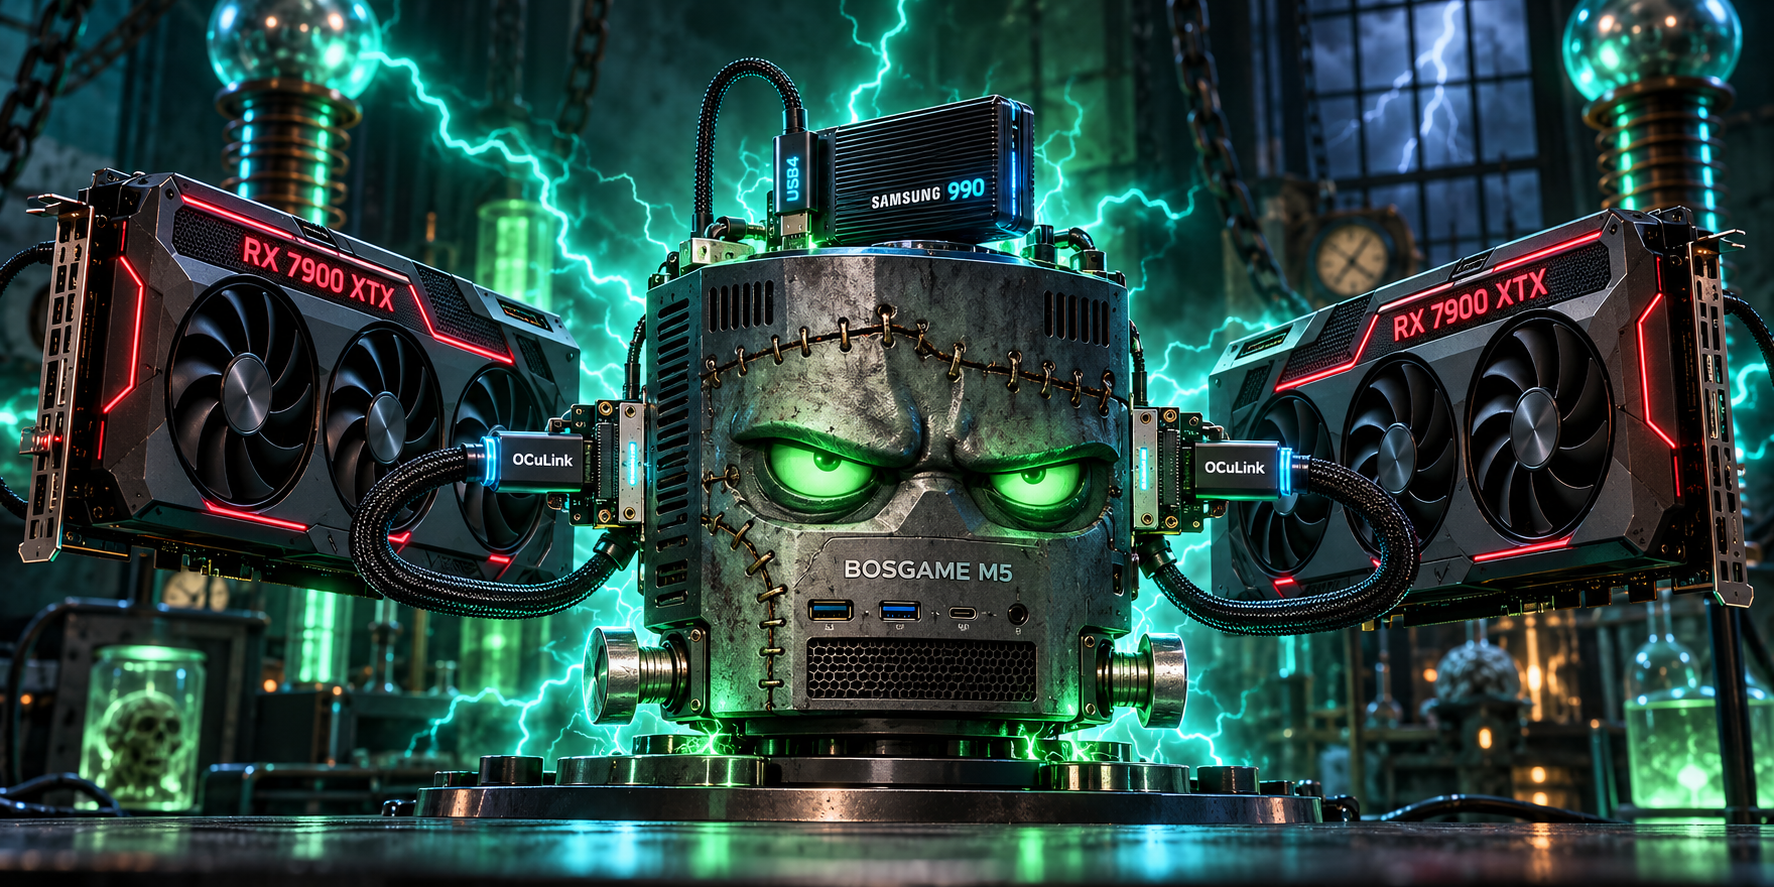
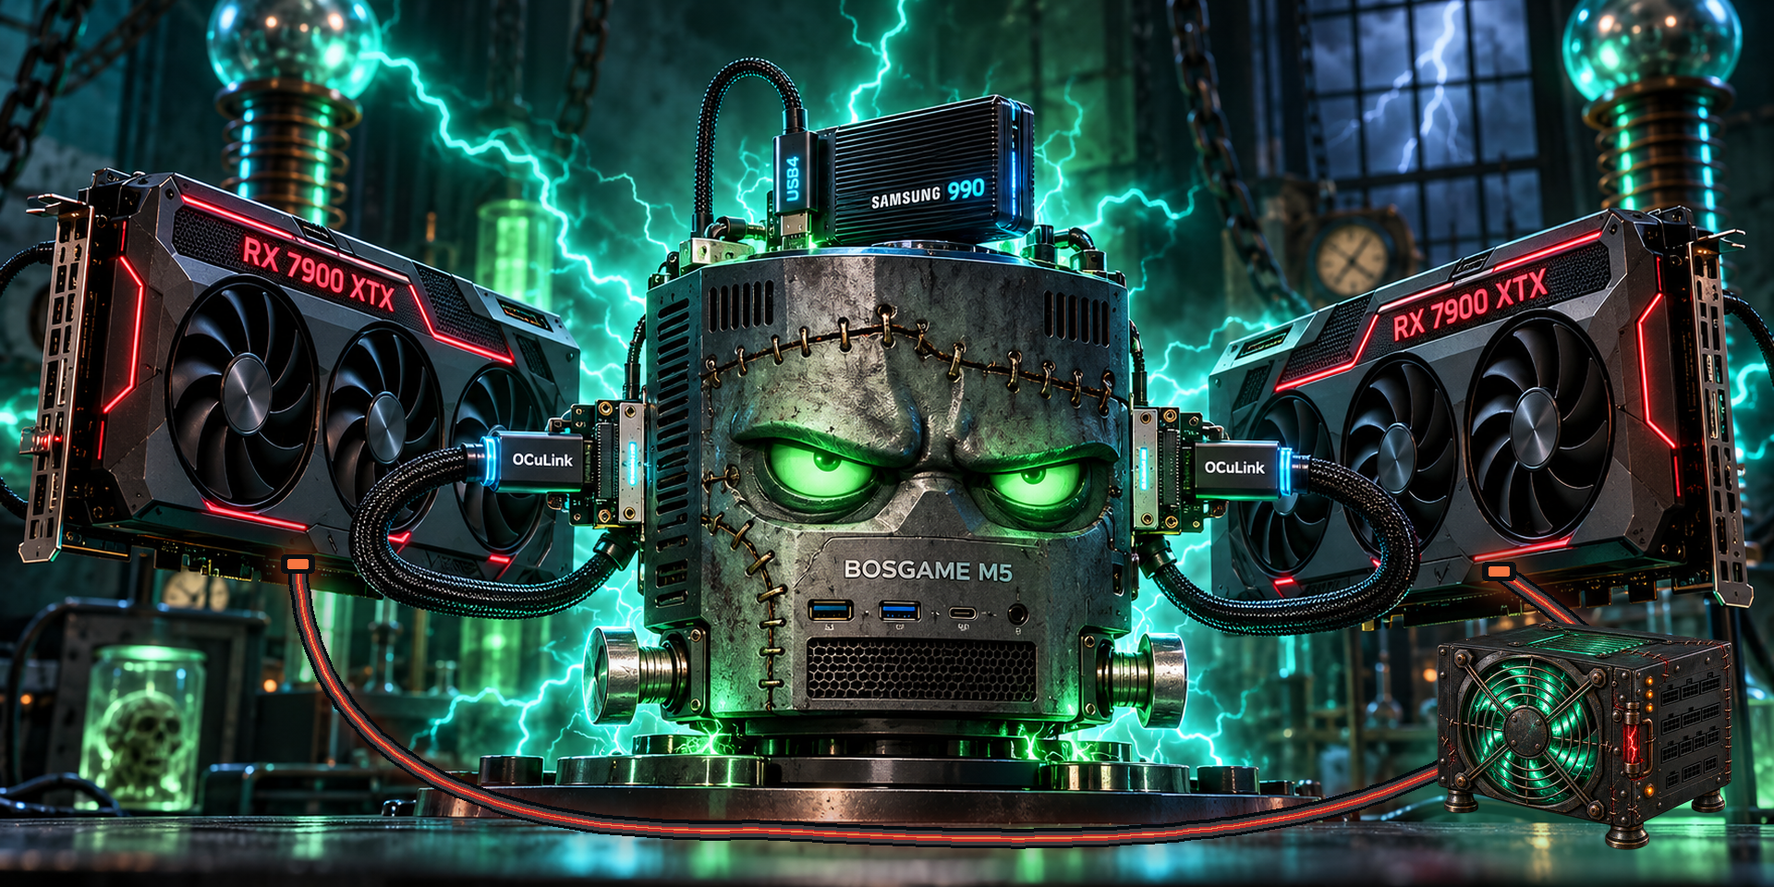
Add powered PSU to dual XTX cover art

Changed region(s): [[0.155, 0.6088, 0.9921, 1.0]]

diff --git a/README.md b/README.md
@@ -1,6 +1,6 @@
 # Strix Halo LLM
 
-![Illustration of the BOSGAME M5 with two RX 7900 XTX cards connected by OCuLink and an external USB4 SSD](docs/strix-halo-frankenstein.png)
+![Illustration of the BOSGAME M5 with two OCuLink-connected RX 7900 XTX cards, external USB4 SSD, and a floor-mounted GPU power supply](docs/strix-halo-frankenstein.png)
 
 *Illustration of the [dual RX 7900 XTX setup](#dual-rx-7900-xtx-setup).*
 
